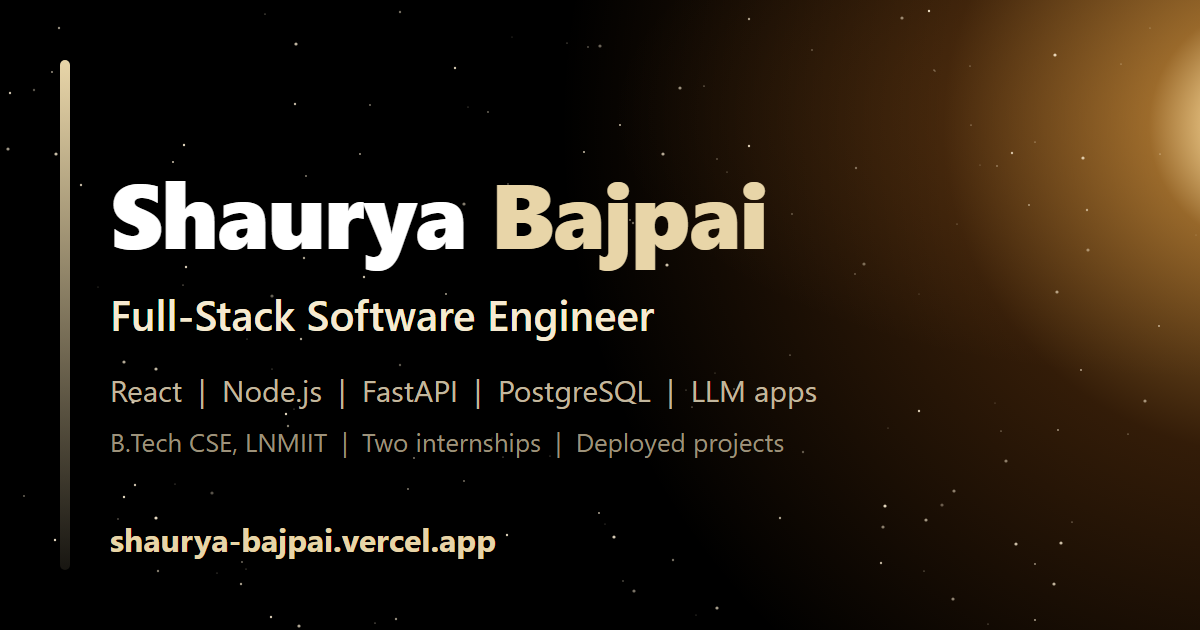
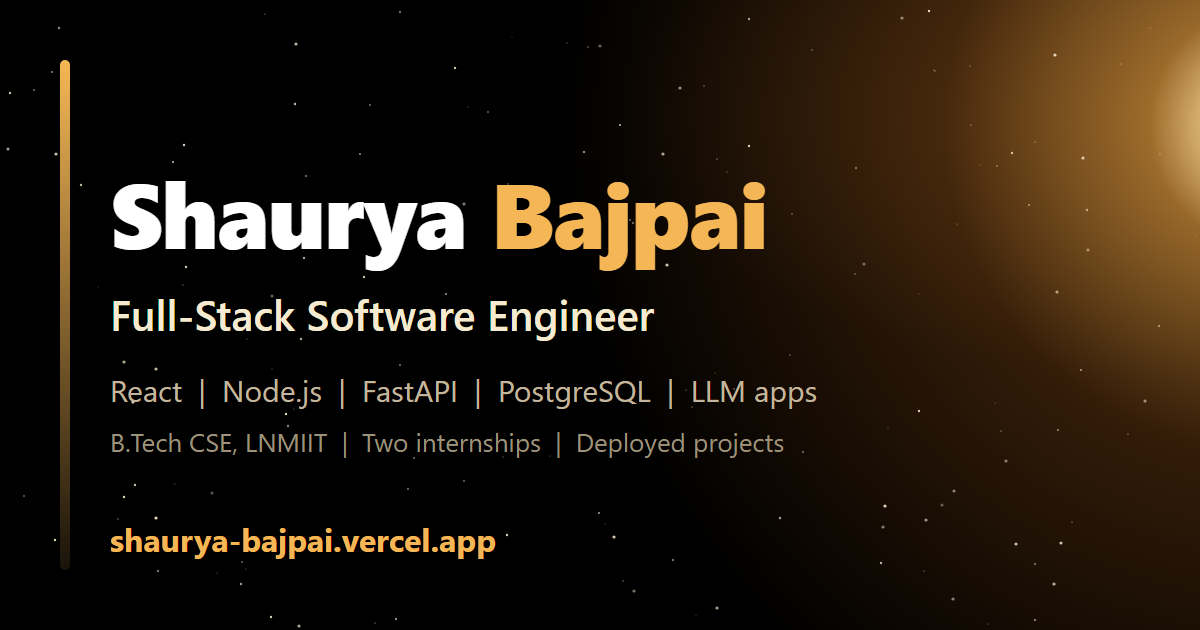
Switch highlight color from beige to amber gold

Changed region(s): [[0.4008, 0.2714, 0.6475, 0.4524], [0.0308, 0.0905, 0.0617, 0.7238], [0.0925, 0.8444, 0.4317, 0.9048]]

diff --git a/app/globals.css b/app/globals.css
@@ -7,7 +7,7 @@
   --color-black-100: #0c0a07;
   --color-black-200: #060504;
   --color-white-100: #f3efe6;
-  --color-accent: #e8d5a8;
+  --color-accent: #f5b755;
   --color-accent-soft: #f6ead0;
 
   --breakpoint-xs: 30rem;
@@ -30,7 +30,7 @@ html {
     /* the sun: bright core, soft corona, long warm falloff */
     radial-gradient(circle at 106% 16%, #fff6df 0, #ffe0a0 2.5%, rgba(255, 176, 72, 0.55) 9%, rgba(255, 140, 40, 0.2) 24%, transparent 52%),
     radial-gradient(70% 60% at 100% 14%, rgba(255, 160, 60, 0.16), transparent 70%),
-    radial-gradient(60% 45% at 0% 100%, rgba(232, 213, 168, 0.06), transparent 65%);
+    radial-gradient(60% 45% at 0% 100%, rgba(245, 183, 85, 0.06), transparent 65%);
   background-attachment: fixed;
 }
 
@@ -49,7 +49,7 @@ body {
 }
 
 ::selection {
-  background: #e8d5a8;
+  background: #f5b755;
   color: #000;
 }
 
@@ -76,12 +76,12 @@ body {
 }
 
 .violet-gradient {
-  background: #e8d5a8;
-  background: linear-gradient(-90deg, #e8d5a8 0%, rgba(232, 213, 168, 0) 100%);
+  background: #f5b755;
+  background: linear-gradient(-90deg, #f5b755 0%, rgba(245, 183, 85, 0) 100%);
 }
 
 .green-pink-gradient {
-  background: linear-gradient(90.13deg, #8a6a2f 1.9%, #e8d5a8 97.5%);
+  background: linear-gradient(90.13deg, #9a6212 1.9%, #f5b755 97.5%);
 }
 
 .orange-text-gradient {

diff --git a/components/Hero.tsx b/components/Hero.tsx
@@ -8,13 +8,13 @@ export default function Hero() {
     <section className="relative mx-auto h-screen w-full">
       <div className="absolute inset-0 top-[120px] mx-auto flex max-w-7xl flex-row items-start gap-5 px-6 sm:px-16">
         <div className="mt-5 flex flex-col items-center justify-center">
-          <div className="h-5 w-5 rounded-full bg-[#e8d5a8]" />
+          <div className="h-5 w-5 rounded-full bg-[#f5b755]" />
           <div className="violet-gradient h-40 w-1 sm:h-80" />
         </div>
 
         <div>
           <h1 className="mt-2 text-[40px] font-black text-white xs:text-[50px] sm:text-[60px] sm:leading-[80px] lg:text-[80px] lg:leading-[98px]">
-            Hi, I&apos;m <span className="text-[#e8d5a8]">{person.firstName}</span>
+            Hi, I&apos;m <span className="text-[#f5b755]">{person.firstName}</span>
           </h1>
           <p className="mt-2 max-w-2xl text-[16px] font-medium text-white-100 xs:text-[20px] sm:text-[26px] sm:leading-[38px] lg:text-[30px] lg:leading-[40px]">
             {heroCopy.lead}{" "}

diff --git a/components/Experience.tsx b/components/Experience.tsx
@@ -59,7 +59,7 @@ function ExperienceItem({ experience }: { experience: Exp }) {
               transition={{ duration: 0.35, delay: 0.05 * i }}
               className="flex gap-2.5 text-[14px] leading-relaxed text-white-100"
             >
-              <span className="mt-[7px] h-1.5 w-1.5 flex-shrink-0 rounded-full bg-[#e8d5a8]" />
+              <span className="mt-[7px] h-1.5 w-1.5 flex-shrink-0 rounded-full bg-[#f5b755]" />
               <span>{point}</span>
             </motion.li>
           ))}
@@ -89,7 +89,7 @@ function Experience() {
         {/* fill that grows with scroll position */}
         <motion.div
           style={{ scaleY: scrollYProgress }}
-          className="absolute left-[19px] top-2 bottom-2 w-[3px] origin-top rounded-full bg-gradient-to-b from-[#e8d5a8] to-[#f6ead0] sm:left-[23px]"
+          className="absolute left-[19px] top-2 bottom-2 w-[3px] origin-top rounded-full bg-gradient-to-b from-[#f5b755] to-[#f6ead0] sm:left-[23px]"
         />
 
         <div className="flex flex-col gap-12">

diff --git a/components/Footer.tsx b/components/Footer.tsx
@@ -24,7 +24,7 @@ export default function Footer() {
             rel="noopener noreferrer"
             aria-label={label}
             title={label}
-            className={`flex items-center justify-center rounded-full border border-white/10 bg-tertiary text-secondary transition-all duration-200 hover:-translate-y-1 hover:border-[#e8d5a8]/60 hover:text-[#f6ead0] hover:shadow-[0_0_18px_rgba(246,190,100,0.45)] ${
+            className={`flex items-center justify-center rounded-full border border-white/10 bg-tertiary text-secondary transition-all duration-200 hover:-translate-y-1 hover:border-[#f5b755]/60 hover:text-[#f6ead0] hover:shadow-[0_0_18px_rgba(246,190,100,0.45)] ${
               big ? "h-12 w-12 text-[24px]" : "h-10 w-10 text-[18px]"
             }`}
           >

diff --git a/components/Navbar.tsx b/components/Navbar.tsx
@@ -64,7 +64,7 @@ export default function Navbar() {
             >
               <a href={`#${nav.id}`}>{nav.title}</a>
               <span
-                className={`absolute -bottom-0.5 left-0 h-[2px] rounded-full bg-[#e8d5a8] transition-all duration-300 ${
+                className={`absolute -bottom-0.5 left-0 h-[2px] rounded-full bg-[#f5b755] transition-all duration-300 ${
                   active === nav.id ? "w-full" : "w-0"
                 }`}
               />

diff --git a/components/ScrollProgress.tsx b/components/ScrollProgress.tsx
@@ -13,7 +13,7 @@ export default function ScrollProgress() {
   return (
     <motion.div
       style={{ scaleX }}
-      className="fixed left-0 top-0 z-30 h-[3px] w-full origin-left bg-gradient-to-r from-[#e8d5a8] to-[#f6ead0]"
+      className="fixed left-0 top-0 z-30 h-[3px] w-full origin-left bg-gradient-to-r from-[#f5b755] to-[#f6ead0]"
     />
   );
 }
